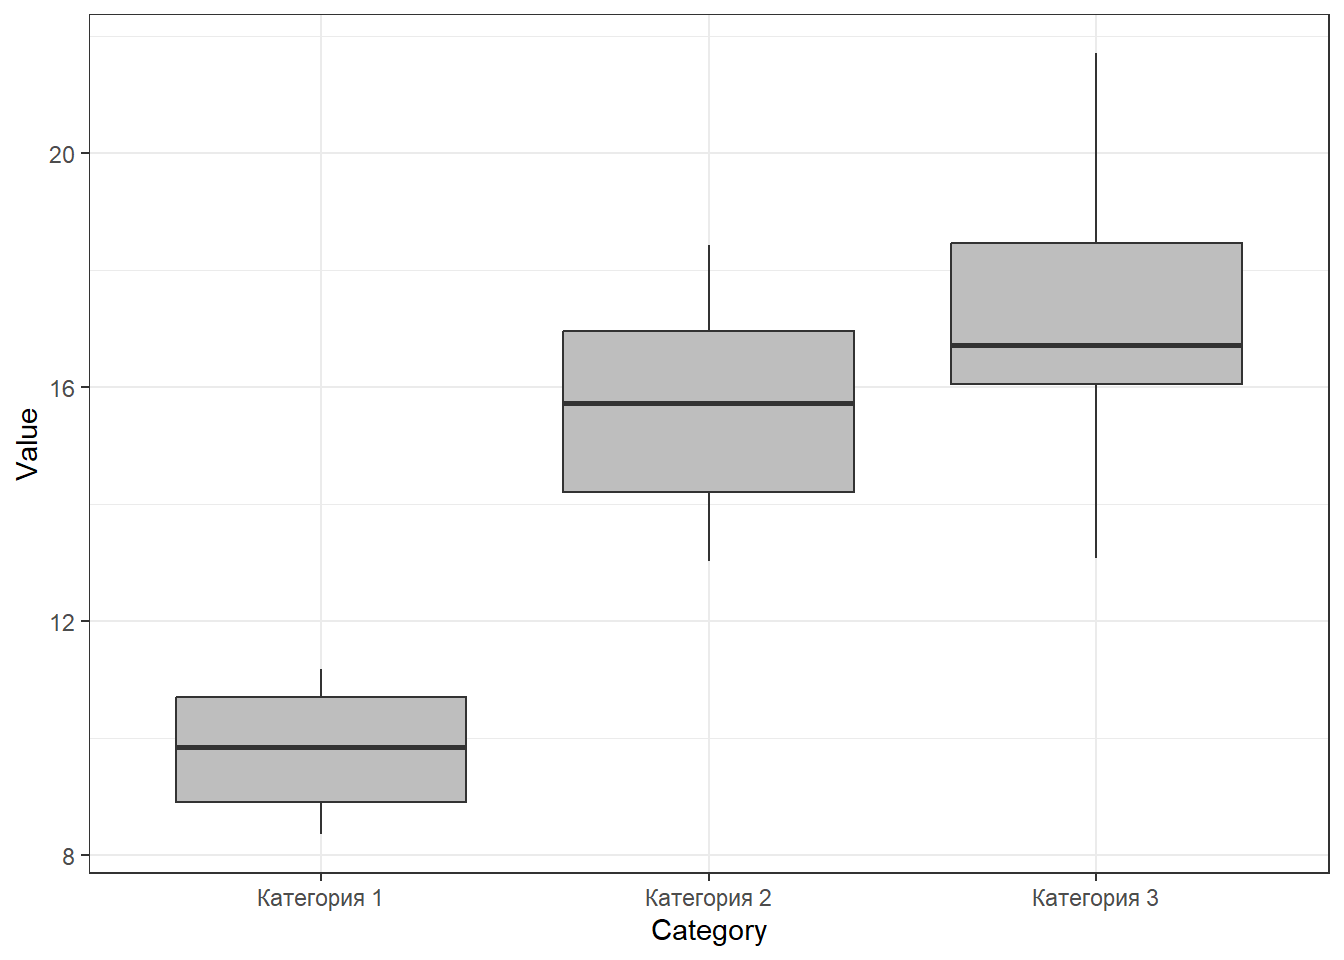
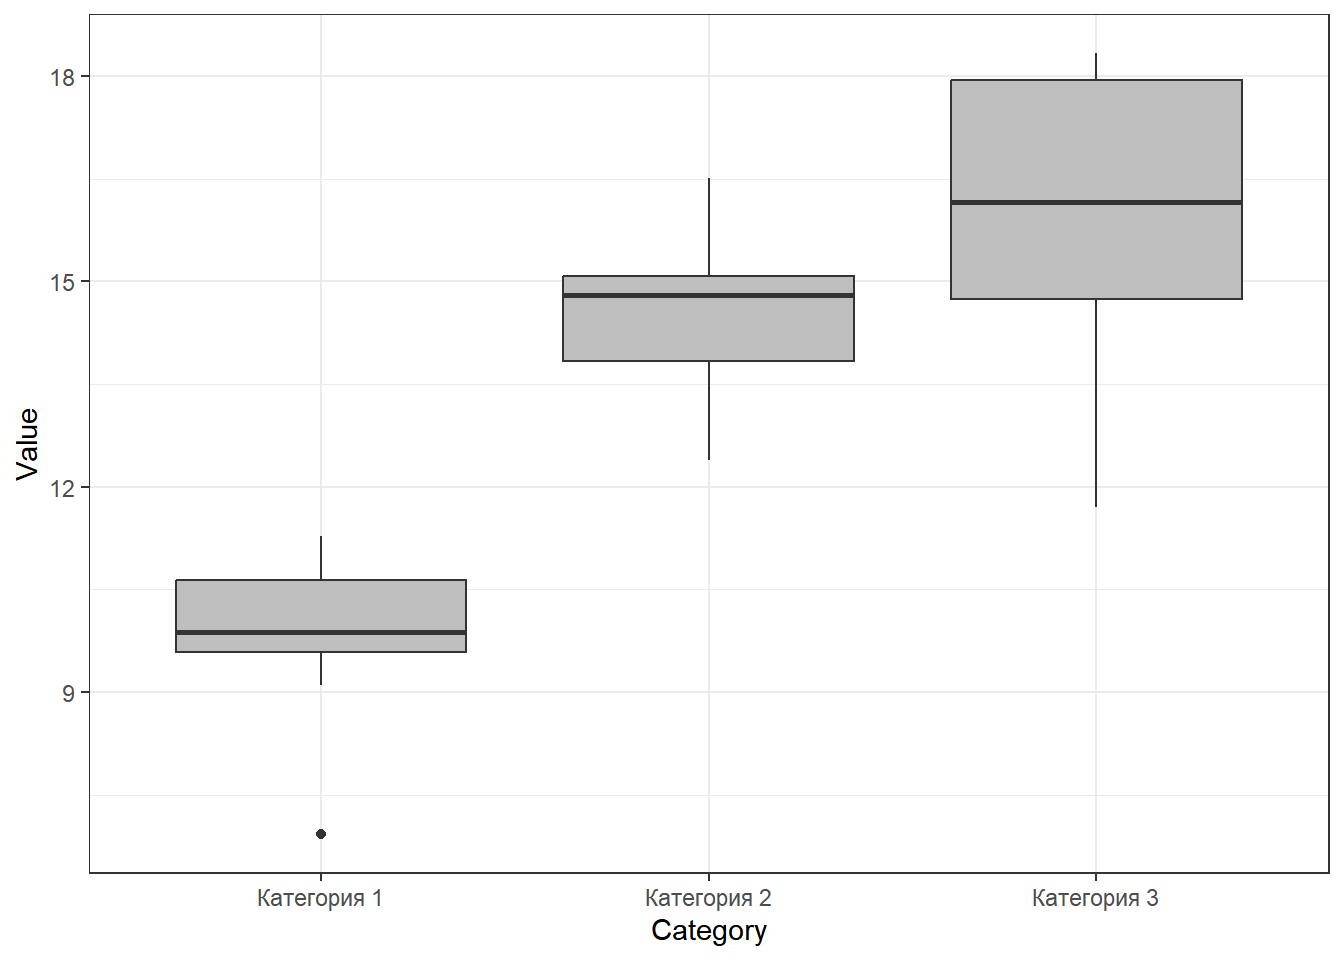
Обновил задания и результаты

diff --git a/lectures.html b/lectures.html
@@ -33,8 +33,6 @@
 <link href="site_libs/tocify-1.9.1/jquery.tocify.css" rel="stylesheet" />
 <script src="site_libs/tocify-1.9.1/jquery.tocify.js"></script>
 <script src="site_libs/navigation-1.1/tabsets.js"></script>
-<link href="site_libs/tabwid-1.1.3/tabwid.css" rel="stylesheet" />
-<script src="site_libs/tabwid-1.1.3/tabwid.js"></script>
 
 <style type="text/css">
   code{white-space: pre-wrap;}
@@ -462,7 +460,7 @@ href="data/hydrology_2022.xls">hydrology_2022.xls</a></p></li>
 <p>Вот небольшой список наиболее ходовых функций, которые позволяют
 составлять самые простые скрипты на языке R</p>
 <p><a
-href="data/Минимальный%20набор%20функции%20в%20R.doc"><strong>Самые
+href="data/%D0%9C%D0%B8%D0%BD%D0%B8%D0%BC%D0%B0%D0%BB%D1%8C%D0%BD%D1%8B%D0%B9%20%D0%BD%D0%B0%D0%B1%D0%BE%D1%80%20%D1%84%D1%83%D0%BD%D0%BA%D1%86%D0%B8%D0%B8%20%D0%B2%20R.doc"><strong>Самые
 ходовые функции языка R</strong></a></p>
 </div>
 <div id="домашнее-задание" class="section level3">
@@ -566,7 +564,7 @@ virginica.</p>
 набить в экселе.</p>
 <p>Для примера, решение аналогичного задания, для вида “setosa” по
 переменной <code>iris$Sepal.Width</code> будет выглядеть вот так.</p>
-<div class="tabwid"><style>.cl-09f09f62{}.cl-09e3f9f6{font-family:'Arial';font-size:11pt;font-weight:normal;font-style:normal;text-decoration:none;color:rgba(0, 0, 0, 1.00);background-color:transparent;}.cl-09e89290{margin:0;text-align:left;border-bottom: 0 solid rgba(0, 0, 0, 1.00);border-top: 0 solid rgba(0, 0, 0, 1.00);border-left: 0 solid rgba(0, 0, 0, 1.00);border-right: 0 solid rgba(0, 0, 0, 1.00);padding-bottom:5pt;padding-top:5pt;padding-left:5pt;padding-right:5pt;line-height: 1;background-color:transparent;}.cl-09e8929a{margin:0;text-align:right;border-bottom: 0 solid rgba(0, 0, 0, 1.00);border-top: 0 solid rgba(0, 0, 0, 1.00);border-left: 0 solid rgba(0, 0, 0, 1.00);border-right: 0 solid rgba(0, 0, 0, 1.00);padding-bottom:5pt;padding-top:5pt;padding-left:5pt;padding-right:5pt;line-height: 1;background-color:transparent;}.cl-09e9610c{width:0.75in;background-color:transparent;vertical-align: middle;border-bottom: 1.5pt solid rgba(102, 102, 102, 1.00);border-top: 1.5pt solid rgba(102, 102, 102, 1.00);border-left: 0 solid rgba(0, 0, 0, 1.00);border-right: 0 solid rgba(0, 0, 0, 1.00);margin-bottom:0;margin-top:0;margin-left:0;margin-right:0;}.cl-09e96116{width:0.75in;background-color:transparent;vertical-align: middle;border-bottom: 1.5pt solid rgba(102, 102, 102, 1.00);border-top: 1.5pt solid rgba(102, 102, 102, 1.00);border-left: 0 solid rgba(0, 0, 0, 1.00);border-right: 0 solid rgba(0, 0, 0, 1.00);margin-bottom:0;margin-top:0;margin-left:0;margin-right:0;}.cl-09e96117{width:0.75in;background-color:transparent;vertical-align: middle;border-bottom: 0 solid rgba(0, 0, 0, 1.00);border-top: 0 solid rgba(0, 0, 0, 1.00);border-left: 0 solid rgba(0, 0, 0, 1.00);border-right: 0 solid rgba(0, 0, 0, 1.00);margin-bottom:0;margin-top:0;margin-left:0;margin-right:0;}.cl-09e96118{width:0.75in;background-color:transparent;vertical-align: middle;border-bottom: 0 solid rgba(0, 0, 0, 1.00);border-top: 0 solid rgba(0, 0, 0, 1.00);border-left: 0 solid rgba(0, 0, 0, 1.00);border-right: 0 solid rgba(0, 0, 0, 1.00);margin-bottom:0;margin-top:0;margin-left:0;margin-right:0;}.cl-09e96120{width:0.75in;background-color:transparent;vertical-align: middle;border-bottom: 1.5pt solid rgba(102, 102, 102, 1.00);border-top: 0 solid rgba(0, 0, 0, 1.00);border-left: 0 solid rgba(0, 0, 0, 1.00);border-right: 0 solid rgba(0, 0, 0, 1.00);margin-bottom:0;margin-top:0;margin-left:0;margin-right:0;}.cl-09e96121{width:0.75in;background-color:transparent;vertical-align: middle;border-bottom: 1.5pt solid rgba(102, 102, 102, 1.00);border-top: 0 solid rgba(0, 0, 0, 1.00);border-left: 0 solid rgba(0, 0, 0, 1.00);border-right: 0 solid rgba(0, 0, 0, 1.00);margin-bottom:0;margin-top:0;margin-left:0;margin-right:0;}</style><table data-quarto-disable-processing='true' class='cl-09f09f62'><thead><tr style="overflow-wrap:break-word;"><th class="cl-09e9610c"><p class="cl-09e89290"><span class="cl-09e3f9f6">Sepal.Width</span></p></th><th class="cl-09e96116"><p class="cl-09e8929a"><span class="cl-09e3f9f6">Frequency</span></p></th></tr></thead><tbody><tr style="overflow-wrap:break-word;"><td class="cl-09e96117"><p class="cl-09e89290"><span class="cl-09e3f9f6">2.3</span></p></td><td class="cl-09e96118"><p class="cl-09e8929a"><span class="cl-09e3f9f6">1</span></p></td></tr><tr style="overflow-wrap:break-word;"><td class="cl-09e96117"><p class="cl-09e89290"><span class="cl-09e3f9f6">2.9</span></p></td><td class="cl-09e96118"><p class="cl-09e8929a"><span class="cl-09e3f9f6">1</span></p></td></tr><tr style="overflow-wrap:break-word;"><td class="cl-09e96117"><p class="cl-09e89290"><span class="cl-09e3f9f6">3</span></p></td><td class="cl-09e96118"><p class="cl-09e8929a"><span class="cl-09e3f9f6">6</span></p></td></tr><tr style="overflow-wrap:break-word;"><td class="cl-09e96117"><p class="cl-09e89290"><span class="cl-09e3f9f6">3.1</span></p></td><td class="cl-09e96118"><p class="cl-09e8929a"><span class="cl-09e3f9f6">4</span></p></td></tr><tr style="overflow-wrap:break-word;"><td class="cl-09e96117"><p class="cl-09e89290"><span class="cl-09e3f9f6">3.2</span></p></td><td class="cl-09e96118"><p class="cl-09e8929a"><span class="cl-09e3f9f6">5</span></p></td></tr><tr style="overflow-wrap:break-word;"><td class="cl-09e96117"><p class="cl-09e89290"><span class="cl-09e3f9f6">3.3</span></p></td><td class="cl-09e96118"><p class="cl-09e8929a"><span class="cl-09e3f9f6">2</span></p></td></tr><tr style="overflow-wrap:break-word;"><td class="cl-09e96117"><p class="cl-09e89290"><span class="cl-09e3f9f6">3.4</span></p></td><td class="cl-09e96118"><p class="cl-09e8929a"><span class="cl-09e3f9f6">9</span></p></td></tr><tr style="overflow-wrap:break-word;"><td class="cl-09e96117"><p class="cl-09e89290"><span class="cl-09e3f9f6">3.5</span></p></td><td class="cl-09e96118"><p class="cl-09e8929a"><span class="cl-09e3f9f6">6</span></p></td></tr><tr style="overflow-wrap:break-word;"><td class="cl-09e96117"><p class="cl-09e89290"><span class="cl-09e3f9f6">3.6</span></p></td><td class="cl-09e96118"><p class="cl-09e8929a"><span class="cl-09e3f9f6">3</span></p></td></tr><tr style="overflow-wrap:break-word;"><td class="cl-09e96117"><p class="cl-09e89290"><span class="cl-09e3f9f6">3.7</span></p></td><td class="cl-09e96118"><p class="cl-09e8929a"><span class="cl-09e3f9f6">3</span></p></td></tr><tr style="overflow-wrap:break-word;"><td class="cl-09e96117"><p class="cl-09e89290"><span class="cl-09e3f9f6">3.8</span></p></td><td class="cl-09e96118"><p class="cl-09e8929a"><span class="cl-09e3f9f6">4</span></p></td></tr><tr style="overflow-wrap:break-word;"><td class="cl-09e96117"><p class="cl-09e89290"><span class="cl-09e3f9f6">3.9</span></p></td><td class="cl-09e96118"><p class="cl-09e8929a"><span class="cl-09e3f9f6">2</span></p></td></tr><tr style="overflow-wrap:break-word;"><td class="cl-09e96117"><p class="cl-09e89290"><span class="cl-09e3f9f6">4</span></p></td><td class="cl-09e96118"><p class="cl-09e8929a"><span class="cl-09e3f9f6">1</span></p></td></tr><tr style="overflow-wrap:break-word;"><td class="cl-09e96117"><p class="cl-09e89290"><span class="cl-09e3f9f6">4.1</span></p></td><td class="cl-09e96118"><p class="cl-09e8929a"><span class="cl-09e3f9f6">1</span></p></td></tr><tr style="overflow-wrap:break-word;"><td class="cl-09e96117"><p class="cl-09e89290"><span class="cl-09e3f9f6">4.2</span></p></td><td class="cl-09e96118"><p class="cl-09e8929a"><span class="cl-09e3f9f6">1</span></p></td></tr><tr style="overflow-wrap:break-word;"><td class="cl-09e96120"><p class="cl-09e89290"><span class="cl-09e3f9f6">4.4</span></p></td><td class="cl-09e96121"><p class="cl-09e8929a"><span class="cl-09e3f9f6">1</span></p></td></tr></tbody></table></div>
+<div class="tabwid"><style>.cl-40bebd10{}.cl-40a4dc1a{font-family:'Arial';font-size:11pt;font-weight:normal;font-style:normal;text-decoration:none;color:rgba(0, 0, 0, 1.00);background-color:transparent;}.cl-40af07e4{margin:0;text-align:left;border-bottom: 0 solid rgba(0, 0, 0, 1.00);border-top: 0 solid rgba(0, 0, 0, 1.00);border-left: 0 solid rgba(0, 0, 0, 1.00);border-right: 0 solid rgba(0, 0, 0, 1.00);padding-bottom:5pt;padding-top:5pt;padding-left:5pt;padding-right:5pt;line-height: 1;background-color:transparent;}.cl-40af07f8{margin:0;text-align:right;border-bottom: 0 solid rgba(0, 0, 0, 1.00);border-top: 0 solid rgba(0, 0, 0, 1.00);border-left: 0 solid rgba(0, 0, 0, 1.00);border-right: 0 solid rgba(0, 0, 0, 1.00);padding-bottom:5pt;padding-top:5pt;padding-left:5pt;padding-right:5pt;line-height: 1;background-color:transparent;}.cl-40af4722{width:0.75in;background-color:transparent;vertical-align: middle;border-bottom: 1.5pt solid rgba(102, 102, 102, 1.00);border-top: 1.5pt solid rgba(102, 102, 102, 1.00);border-left: 0 solid rgba(0, 0, 0, 1.00);border-right: 0 solid rgba(0, 0, 0, 1.00);margin-bottom:0;margin-top:0;margin-left:0;margin-right:0;}.cl-40af472c{width:0.75in;background-color:transparent;vertical-align: middle;border-bottom: 1.5pt solid rgba(102, 102, 102, 1.00);border-top: 1.5pt solid rgba(102, 102, 102, 1.00);border-left: 0 solid rgba(0, 0, 0, 1.00);border-right: 0 solid rgba(0, 0, 0, 1.00);margin-bottom:0;margin-top:0;margin-left:0;margin-right:0;}.cl-40af472d{width:0.75in;background-color:transparent;vertical-align: middle;border-bottom: 0 solid rgba(0, 0, 0, 1.00);border-top: 0 solid rgba(0, 0, 0, 1.00);border-left: 0 solid rgba(0, 0, 0, 1.00);border-right: 0 solid rgba(0, 0, 0, 1.00);margin-bottom:0;margin-top:0;margin-left:0;margin-right:0;}.cl-40af4736{width:0.75in;background-color:transparent;vertical-align: middle;border-bottom: 0 solid rgba(0, 0, 0, 1.00);border-top: 0 solid rgba(0, 0, 0, 1.00);border-left: 0 solid rgba(0, 0, 0, 1.00);border-right: 0 solid rgba(0, 0, 0, 1.00);margin-bottom:0;margin-top:0;margin-left:0;margin-right:0;}.cl-40af4737{width:0.75in;background-color:transparent;vertical-align: middle;border-bottom: 1.5pt solid rgba(102, 102, 102, 1.00);border-top: 0 solid rgba(0, 0, 0, 1.00);border-left: 0 solid rgba(0, 0, 0, 1.00);border-right: 0 solid rgba(0, 0, 0, 1.00);margin-bottom:0;margin-top:0;margin-left:0;margin-right:0;}.cl-40af4740{width:0.75in;background-color:transparent;vertical-align: middle;border-bottom: 1.5pt solid rgba(102, 102, 102, 1.00);border-top: 0 solid rgba(0, 0, 0, 1.00);border-left: 0 solid rgba(0, 0, 0, 1.00);border-right: 0 solid rgba(0, 0, 0, 1.00);margin-bottom:0;margin-top:0;margin-left:0;margin-right:0;}</style><table data-quarto-disable-processing='true' class='cl-40bebd10'><thead><tr style="overflow-wrap:break-word;"><th class="cl-40af4722"><p class="cl-40af07e4"><span class="cl-40a4dc1a">Sepal.Width</span></p></th><th class="cl-40af472c"><p class="cl-40af07f8"><span class="cl-40a4dc1a">Frequency</span></p></th></tr></thead><tbody><tr style="overflow-wrap:break-word;"><td class="cl-40af472d"><p class="cl-40af07e4"><span class="cl-40a4dc1a">2.3</span></p></td><td class="cl-40af4736"><p class="cl-40af07f8"><span class="cl-40a4dc1a">1</span></p></td></tr><tr style="overflow-wrap:break-word;"><td class="cl-40af472d"><p class="cl-40af07e4"><span class="cl-40a4dc1a">2.9</span></p></td><td class="cl-40af4736"><p class="cl-40af07f8"><span class="cl-40a4dc1a">1</span></p></td></tr><tr style="overflow-wrap:break-word;"><td class="cl-40af472d"><p class="cl-40af07e4"><span class="cl-40a4dc1a">3</span></p></td><td class="cl-40af4736"><p class="cl-40af07f8"><span class="cl-40a4dc1a">6</span></p></td></tr><tr style="overflow-wrap:break-word;"><td class="cl-40af472d"><p class="cl-40af07e4"><span class="cl-40a4dc1a">3.1</span></p></td><td class="cl-40af4736"><p class="cl-40af07f8"><span class="cl-40a4dc1a">4</span></p></td></tr><tr style="overflow-wrap:break-word;"><td class="cl-40af472d"><p class="cl-40af07e4"><span class="cl-40a4dc1a">3.2</span></p></td><td class="cl-40af4736"><p class="cl-40af07f8"><span class="cl-40a4dc1a">5</span></p></td></tr><tr style="overflow-wrap:break-word;"><td class="cl-40af472d"><p class="cl-40af07e4"><span class="cl-40a4dc1a">3.3</span></p></td><td class="cl-40af4736"><p class="cl-40af07f8"><span class="cl-40a4dc1a">2</span></p></td></tr><tr style="overflow-wrap:break-word;"><td class="cl-40af472d"><p class="cl-40af07e4"><span class="cl-40a4dc1a">3.4</span></p></td><td class="cl-40af4736"><p class="cl-40af07f8"><span class="cl-40a4dc1a">9</span></p></td></tr><tr style="overflow-wrap:break-word;"><td class="cl-40af472d"><p class="cl-40af07e4"><span class="cl-40a4dc1a">3.5</span></p></td><td class="cl-40af4736"><p class="cl-40af07f8"><span class="cl-40a4dc1a">6</span></p></td></tr><tr style="overflow-wrap:break-word;"><td class="cl-40af472d"><p class="cl-40af07e4"><span class="cl-40a4dc1a">3.6</span></p></td><td class="cl-40af4736"><p class="cl-40af07f8"><span class="cl-40a4dc1a">3</span></p></td></tr><tr style="overflow-wrap:break-word;"><td class="cl-40af472d"><p class="cl-40af07e4"><span class="cl-40a4dc1a">3.7</span></p></td><td class="cl-40af4736"><p class="cl-40af07f8"><span class="cl-40a4dc1a">3</span></p></td></tr><tr style="overflow-wrap:break-word;"><td class="cl-40af472d"><p class="cl-40af07e4"><span class="cl-40a4dc1a">3.8</span></p></td><td class="cl-40af4736"><p class="cl-40af07f8"><span class="cl-40a4dc1a">4</span></p></td></tr><tr style="overflow-wrap:break-word;"><td class="cl-40af472d"><p class="cl-40af07e4"><span class="cl-40a4dc1a">3.9</span></p></td><td class="cl-40af4736"><p class="cl-40af07f8"><span class="cl-40a4dc1a">2</span></p></td></tr><tr style="overflow-wrap:break-word;"><td class="cl-40af472d"><p class="cl-40af07e4"><span class="cl-40a4dc1a">4</span></p></td><td class="cl-40af4736"><p class="cl-40af07f8"><span class="cl-40a4dc1a">1</span></p></td></tr><tr style="overflow-wrap:break-word;"><td class="cl-40af472d"><p class="cl-40af07e4"><span class="cl-40a4dc1a">4.1</span></p></td><td class="cl-40af4736"><p class="cl-40af07f8"><span class="cl-40a4dc1a">1</span></p></td></tr><tr style="overflow-wrap:break-word;"><td class="cl-40af472d"><p class="cl-40af07e4"><span class="cl-40a4dc1a">4.2</span></p></td><td class="cl-40af4736"><p class="cl-40af07f8"><span class="cl-40a4dc1a">1</span></p></td></tr><tr style="overflow-wrap:break-word;"><td class="cl-40af4737"><p class="cl-40af07e4"><span class="cl-40a4dc1a">4.4</span></p></td><td class="cl-40af4740"><p class="cl-40af07f8"><span class="cl-40a4dc1a">1</span></p></td></tr></tbody></table></div>
 <p><strong>Полученный датасет необходимо сохранить в формате
 .csv</strong>.</p>
 <p><br> <br></p>
@@ -726,19 +724,20 @@ class="section level2">
 гипотезы и сделать выбор между ними) и визуализировать в виде столбчатой
 диаграммы (необходимо написать код, который ее построит).</p>
 <p><strong>Вариант 1.</strong></p>
-<p>Рост эльфов из вашего отряда (см): 182, 178, 176, 188, 188, 175, 169,
-188, 177, 178, 181, 182, 177, 180, 180</p>
-<p>Рост фигур (см): 163, 167, 164, 160, 165, 171, 166, 166</p>
+<p>Рост эльфов из вашего отряда (см): 174, 177, 181, 176, 186, 183, 178,
+174, 171, 177, 186, 182, 182, 181, 177</p>
+<p>Рост фигур (см): 156, 168, 160, 165, 168, 159, 168, 162, 173, 162,
+163, 163, 169, 166, 163, 156, 171, 166</p>
 <p><strong>Вариант 2.</strong></p>
-<p>Рост эльфов из вашего отряда (см): 180, 170, 173, 181, 193, 183, 183,
-183, 180, 178, 173, 179, 186, 185, 187</p>
-<p>Рост фигур (см): 196, 193, 193, 194, 195, 189, 188, 183, 178, 188,
-197, 194, 187, 186, 184, 183, 197, 194, 184</p>
+<p>Рост эльфов из вашего отряда (см): 177, 178, 171, 184, 175, 179, 179,
+177, 176, 182, 186, 180, 174, 175, 189</p>
+<p>Рост фигур (см): 198, 184, 176, 187, 201, 187, 179, 193, 198, 180,
+177, 188</p>
 <p><strong>Вариант 3.</strong></p>
-<p>Рост эльфов из вашего отряда (см): 170, 173, 181, 179, 185, 171, 184,
-185, 181, 182, 190, 171, 181, 169, 183</p>
-<p>Рост фигур (см): 152, 162, 153, 154, 140, 138, 157, 142, 161, 143,
-155, 141, 148, 149, 151</p>
+<p>Рост эльфов из вашего отряда (см): 178, 177, 183, 186, 172, 178, 182,
+181, 180, 178, 180, 187, 183, 175, 186</p>
+<p>Рост фигур (см): 163, 143, 147, 157, 146, 152, 148, 155, 151, 143,
+155, 161, 150, 149, 154, 148, 148</p>
 </div>
 </div>
 <div id="однофакторный-дисперсионный-анализ" class="section level1">
@@ -867,18 +866,19 @@ class="section level1">
 </div>
 <div id="оценки-за-домашние-работы" class="section level1">
 <h1>Оценки за домашние работы</h1>
-<table>
+<table style="width:100%;">
 <colgroup>
-<col width="36%" />
-<col width="5%" />
+<col width="31%" />
 <col width="4%" />
-<col width="5%" />
-<col width="5%" />
-<col width="5%" />
-<col width="5%" />
-<col width="5%" />
-<col width="5%" />
-<col width="20%" />
+<col width="3%" />
+<col width="4%" />
+<col width="4%" />
+<col width="4%" />
+<col width="4%" />
+<col width="4%" />
+<col width="4%" />
+<col width="4%" />
+<col width="25%" />
 </colgroup>
 <thead>
 <tr class="header">
@@ -891,7 +891,8 @@ class="section level1">
 <th align="right">ДЗ_6</th>
 <th align="right">ДЗ_7</th>
 <th align="right">ДЗ_8</th>
-<th align="right">Варианты для ДЗ_9</th>
+<th align="right">ДЗ_9</th>
+<th align="right">Итоговая оценка к экзамену</th>
 </tr>
 </thead>
 <tbody>
@@ -905,7 +906,8 @@ class="section level1">
 <td align="right">100</td>
 <td align="right">100</td>
 <td align="right">100</td>
-<td align="right">1</td>
+<td align="right">NA</td>
+<td align="right">44.444444</td>
 </tr>
 <tr class="even">
 <td align="left">Демиденко Елизавета Романовна</td>
@@ -917,7 +919,8 @@ class="section level1">
 <td align="right">NA</td>
 <td align="right">NA</td>
 <td align="right">100</td>
-<td align="right">2</td>
+<td align="right">NA</td>
+<td align="right">44.444444</td>
 </tr>
 <tr class="odd">
 <td align="left">Колесникова Анастасия Алексеевна</td>
@@ -929,7 +932,8 @@ class="section level1">
 <td align="right">100</td>
 <td align="right">100</td>
 <td align="right">100</td>
-<td align="right">3</td>
+<td align="right">100</td>
+<td align="right">44.444444</td>
 </tr>
 <tr class="even">
 <td align="left">Малина Лада Николаевна</td>
@@ -941,7 +945,8 @@ class="section level1">
 <td align="right">100</td>
 <td align="right">NA</td>
 <td align="right">NA</td>
-<td align="right">1</td>
+<td align="right">NA</td>
+<td align="right">38.888889</td>
 </tr>
 <tr class="odd">
 <td align="left">Мирошниченко Сандра Алексеевна</td>
@@ -953,7 +958,8 @@ class="section level1">
 <td align="right">100</td>
 <td align="right">100</td>
 <td align="right">100</td>
-<td align="right">2</td>
+<td align="right">100</td>
+<td align="right">83.333333</td>
 </tr>
 <tr class="even">
 <td align="left">Низовцева Милана Владимировна</td>
@@ -965,7 +971,8 @@ class="section level1">
 <td align="right">NA</td>
 <td align="right">NA</td>
 <td align="right">NA</td>
-<td align="right">3</td>
+<td align="right">NA</td>
+<td align="right">22.222222</td>
 </tr>
 <tr class="odd">
 <td align="left">Паулюкайтис Максим Гинтарасович</td>
@@ -977,7 +984,8 @@ class="section level1">
 <td align="right">NA</td>
 <td align="right">NA</td>
 <td align="right">NA</td>
-<td align="right">1</td>
+<td align="right">NA</td>
+<td align="right">0.000000</td>
 </tr>
 <tr class="even">
 <td align="left">Толкачев Данила Владимирович</td>
@@ -989,7 +997,8 @@ class="section level1">
 <td align="right">NA</td>
 <td align="right">NA</td>
 <td align="right">NA</td>
-<td align="right">2</td>
+<td align="right">NA</td>
+<td align="right">6.666667</td>
 </tr>
 </tbody>
 </table>
@@ -1056,7 +1065,7 @@ PWS-Kent, Boston, Massachusetts.</p>
 <p>Источник данных: <a
 href="http://www.statsci.org/data/general/fev.html"
 class="uri">http://www.statsci.org/data/general/fev.html</a></p>
-<p>Датасет: <a href="Data/fev.xls">fev.xls</a>. лист «tidy_data»</p>
+<p>Датасет: <a href="data/fev.xls">fev.xls</a>. лист «tidy_data»</p>
 <p>Структура данных</p>
 <p><code>Age</code> - Возраст</p>
 <p><code>FEV</code> - Объем легких при выдохе (литры) (forced expiratory
@@ -1094,7 +1103,7 @@ Rosner, B. (1990). Fundamentals of Biostatistics, 3rd Edition. PWS-Kent,
 Boston, Massachusetts. Источник данных: <a
 href="http://www.statsci.org/data/general/fev.html"
 class="uri">http://www.statsci.org/data/general/fev.html</a></p>
-<p>Датасет: <a href="Data/fev.xls">fev.xls</a>. лист «tidy_data»</p>
+<p>Датасет: <a href="data/fev.xls">fev.xls</a>. лист «tidy_data»</p>
 <p>Структура данных</p>
 <p><code>Age</code> - Возраст</p>
 <p><code>FEV</code> - Объем легких при выдохе (литры) (forced expiratory
@@ -1127,7 +1136,7 @@ RMD файла приведен в приложении.</p>
 <h3>Проект №3</h3>
 <p>Данные из работы Secher et al. (1987), European Journal of
 Obstetrics, Gynecology, and Reproductive Biology, 24: 1–11.</p>
-<p>Датасет <a href="Data/secher.xls">secher.xls</a></p>
+<p>Датасет <a href="data/secher.xls">secher.xls</a></p>
 <p>На УЗИ у плода измеряли межтеменной и абдоминальный диаметр. После
 рождения измеряли вес младенца.</p>
 <p>Переменные</p>
@@ -1194,7 +1203,7 @@ RMD файла приведен в приложении.</p>
 <div id="проект-5." class="section level3">
 <h3>Проект №5.</h3>
 <p>Вам нужно проанализировать емкость легких у разных групп людей.</p>
-<p>Датасет: <a href="Data/tlc.csv">tlc.csv</a></p>
+<p>Датасет: <a href="data/tlc.csv">tlc.csv</a></p>
 <p>Переменные: - <code>age</code> – возраст.</p>
 <ul>
 <li><p><code>sex</code> – пол (1 - женский; 2 - мужской)</p></li>
@@ -1225,7 +1234,7 @@ RMD файла приведен в приложении.</p>
 <h3>Проект №6.</h3>
 <p>Вам нужно проанализировать вес новорожденных детей у курящих и
 некурящих матерей.</p>
-<p>Датасет <a href="Data/birthwt.csv">birthwt.csv</a>.</p>
+<p>Датасет <a href="data/birthwt.csv">birthwt.csv</a>.</p>
 <p>Переменные</p>
 <ul>
 <li><p><code>age</code> — возраст матери</p></li>
